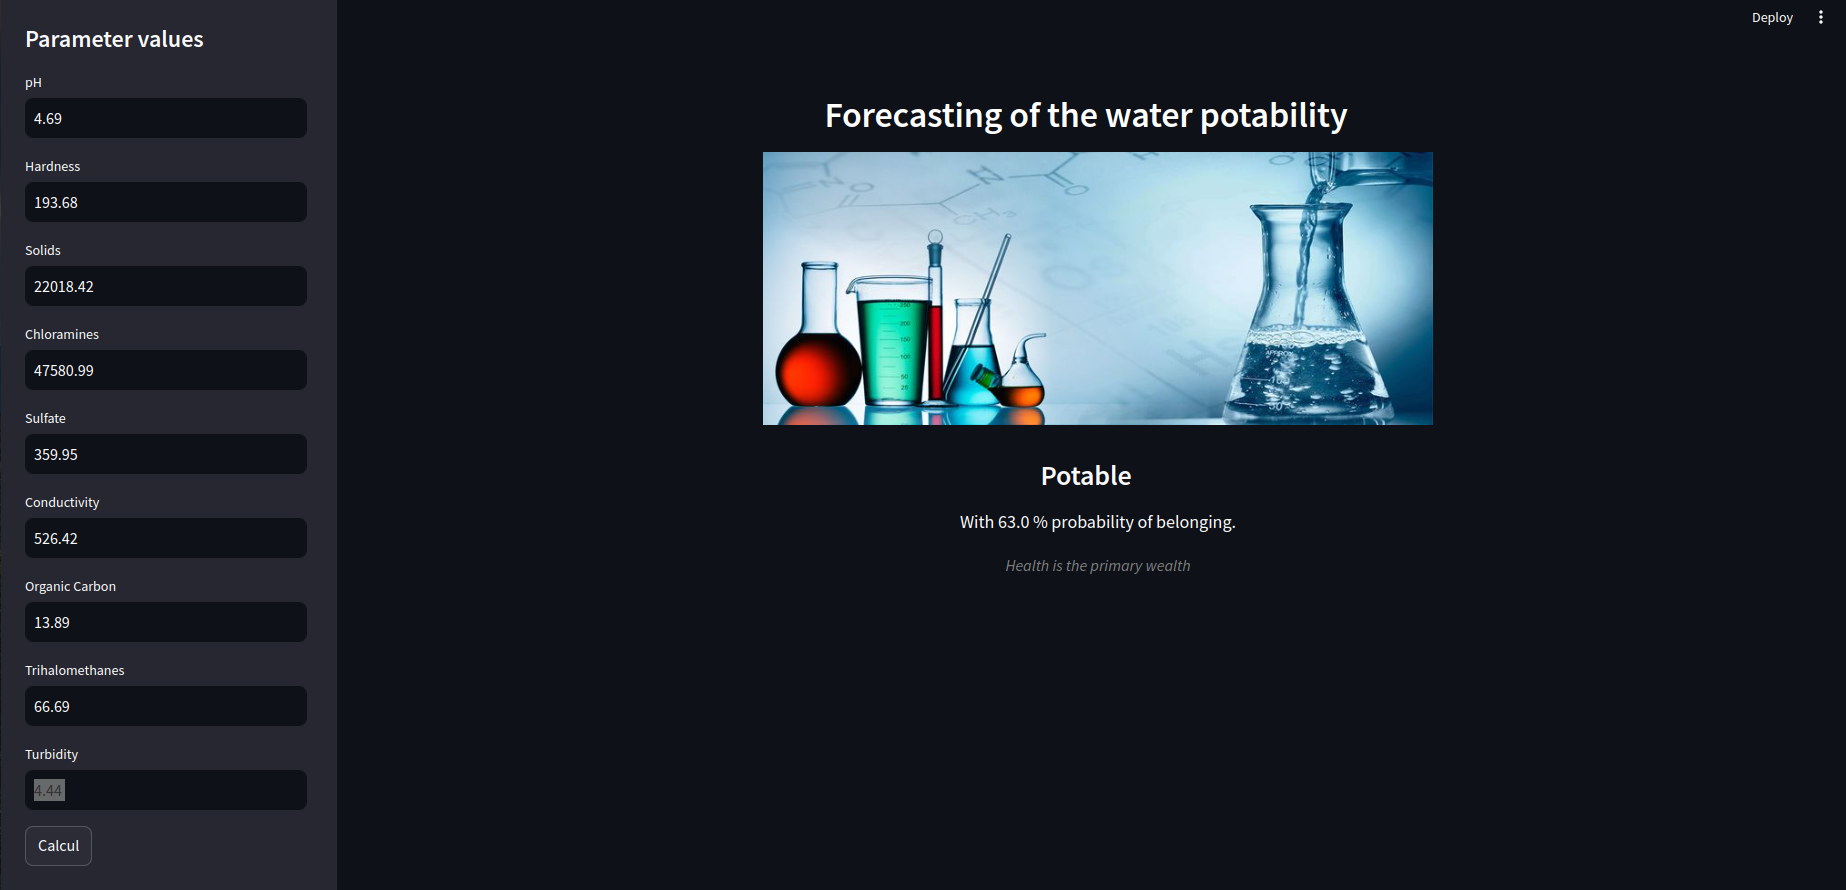
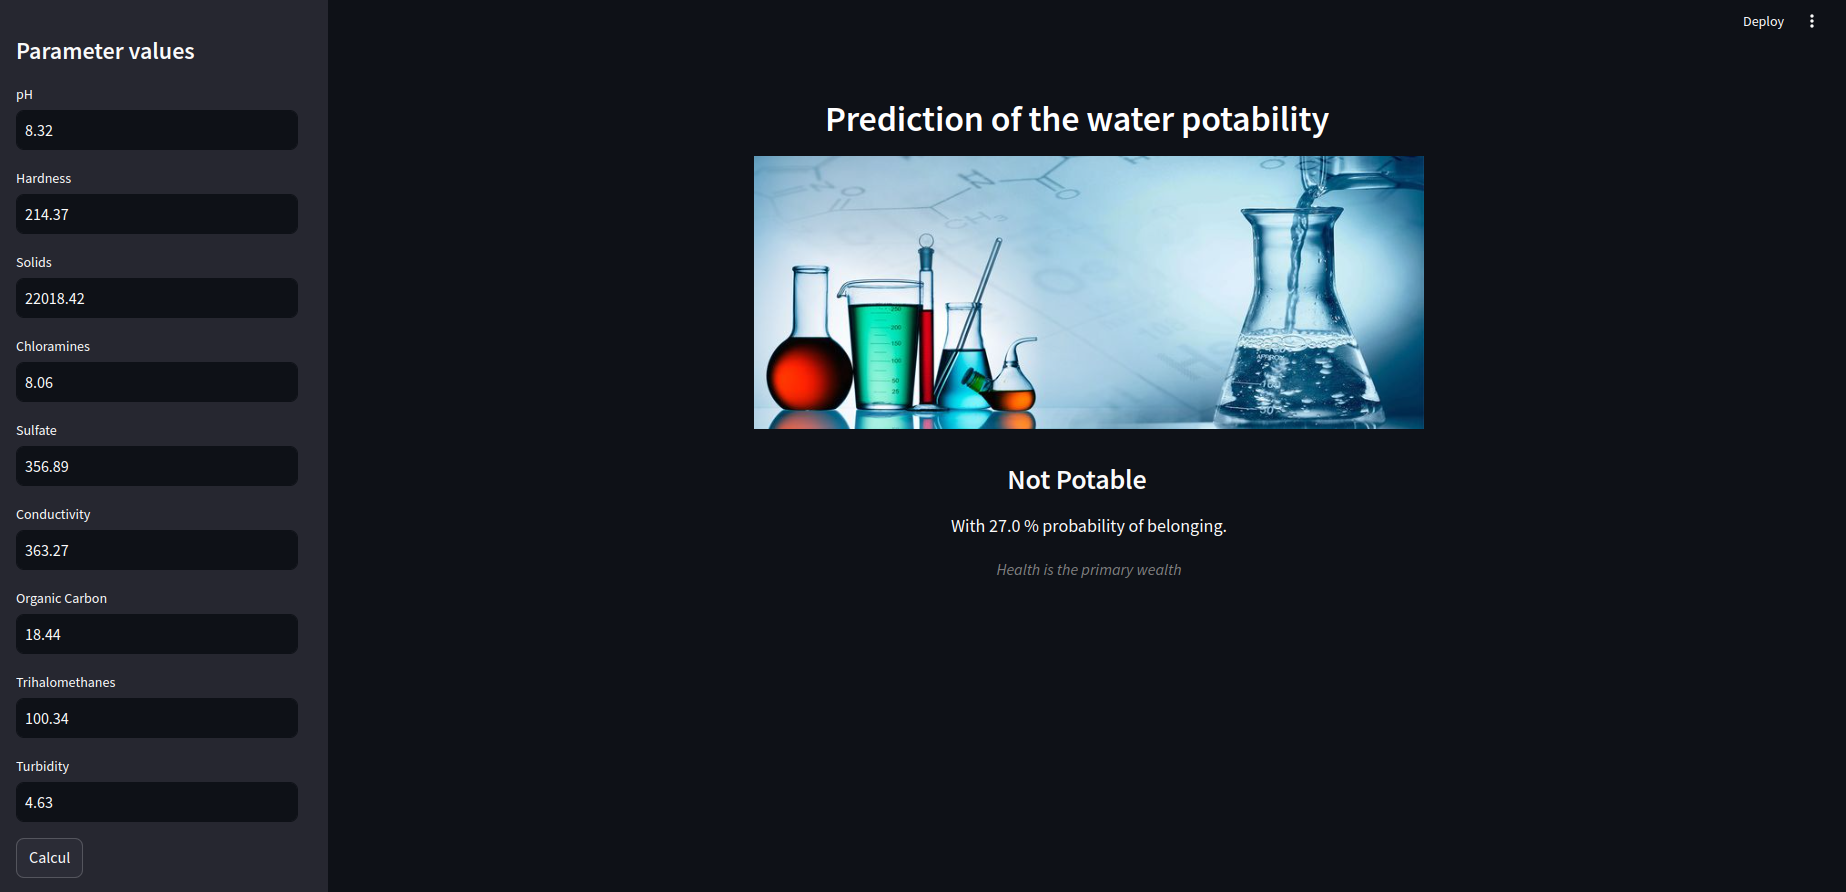
app name modified

diff --git a/app.py b/app.py
@@ -3,7 +3,7 @@ import joblib
 import pandas as pd
 
 # --- Page configuration ---
-st.set_page_config(page_title="Water Potability Forecasting", layout="wide")
+st.set_page_config(page_title="Water Potability Prediction", layout="wide")
 
 # --- Loading of model ---
 @st.cache_resource
@@ -62,7 +62,7 @@ calcul = st.sidebar.button("Calcul")
 
 # --- Main Content ---
 st.markdown(
-    "<h2 style='text-align: center; color: white;'>Forecasting of the water potability</h2>",
+    "<h2 style='text-align: center; color: white;'>Prediction of the water potability</h2>",
     unsafe_allow_html=True,
 )
 
